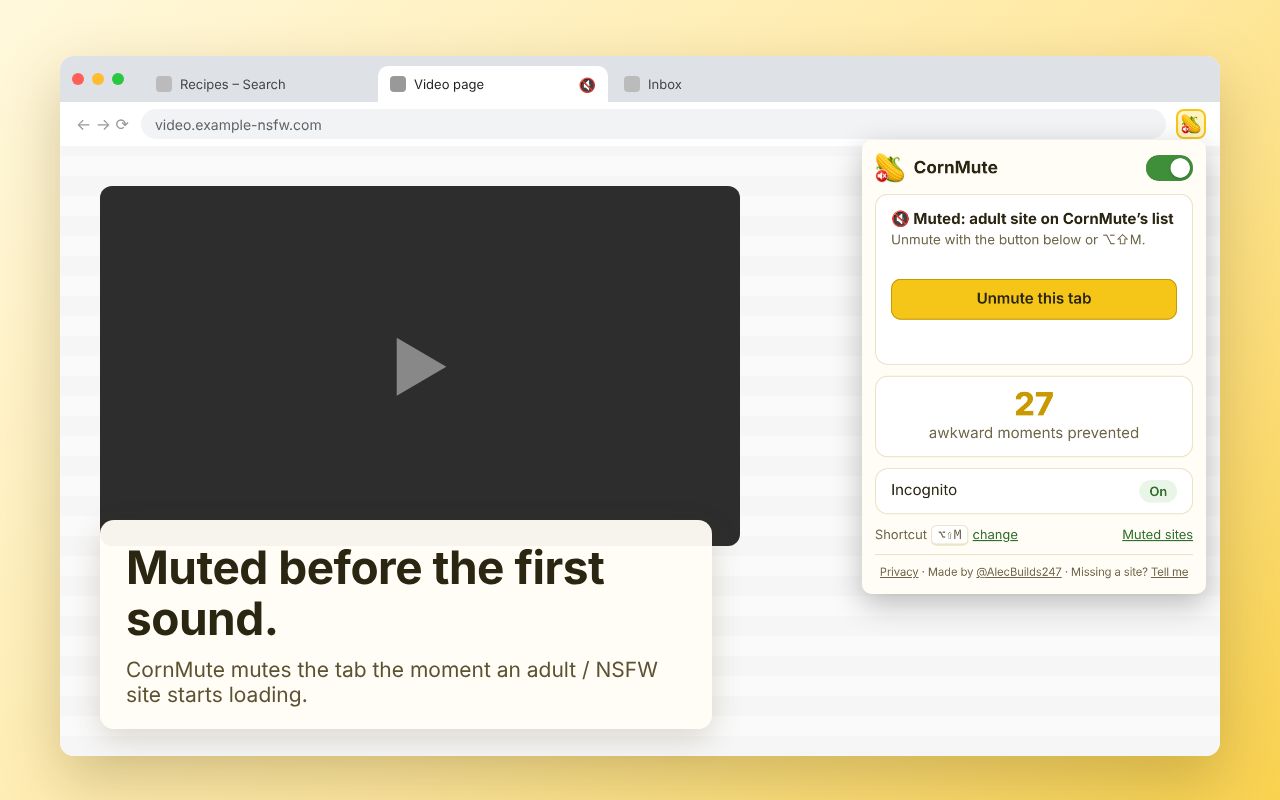
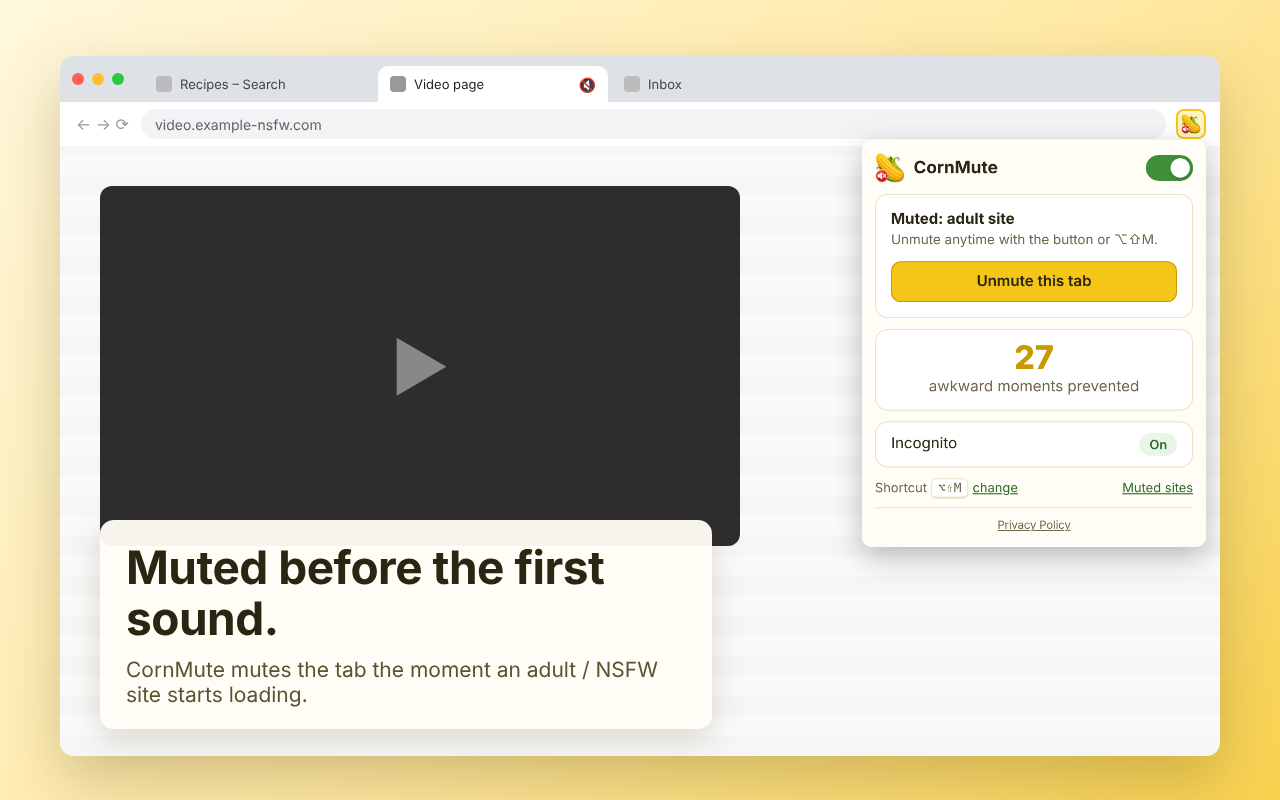
1.0.3 fixes: new status wording, no empty space, footers, website X + review button
- Popup: 'This site plays normally' / 'Nothing to mute here' (no button) / 'Muted: adult site' / 'Muted: on your list'
- Status card ends right after the button or link in every state
- Popup footer: Privacy Policy only. Muted sites: Privacy Policy, Leave a review (when item ID set), @AlecBuilds247
- Website: X link in footers, review button hidden until site/config.js has the item ID
- Tests, screenshots, store/popup-states.png preview, rebuilt release/cornmute-v1.0.3.zip

Claude-Session: https://claude.ai/code/session_01QvsT9z8FVnAeKioMtTewip

Changed region(s): [[0.6562, 0.25, 0.9375, 0.7812]]

diff --git a/tests/unit/popup.test.js b/tests/unit/popup.test.js
@@ -7,55 +7,72 @@ const base = { enabled: true, count: 0, builtinCount: 46987, host: 'news.example
   muted: false, mutedByCornMute: false, unmutedByUser: false };
 const S = '⌥⇧M';
 
-test('normal site: watching count with comma, plays normally, add link shown', () => {
+test('normal site: plays normally, dynamic count with comma, add link + button', () => {
   const c = statusCopy(base, S);
-  assert.equal(c.title, '✓ Watching 46,987 adult sites');
-  assert.equal(c.sub, 'This site isn’t one of them, so it plays normally.');
+  assert.equal(c.title, 'This site plays normally');
+  assert.equal(c.sub, 'It’s not one of the 46,987 adult sites CornMute mutes.');
   assert.equal(c.addLink, true);
+  assert.equal(c.showButton, true);
+  assert.match(statusCopy({ ...base, builtinCount: 51234 }, S).sub, /51,234/);
 });
 
-test('non-web page (new tab, chrome://): no add link', () => {
+test('browser pages (new tab, chrome://, Web Store): nothing to mute, no button, no link', () => {
   const c = statusCopy({ ...base, host: null }, S);
-  assert.match(c.title, /Watching 46,987/);
+  assert.equal(c.title, 'Nothing to mute here');
+  assert.equal(c.sub, 'CornMute works on websites. Open any site to use it.');
+  assert.equal(c.showButton, false);
   assert.equal(c.addLink, false);
 });
 
-test('muted by the built-in list: says adult site on CornMute’s list and how to unmute', () => {
+test('muted by the built-in list: "Muted: adult site" with the real shortcut', () => {
   const c = statusCopy({ ...base, site: 'x.com', builtin: true, muted: true, mutedByCornMute: true }, S);
-  assert.equal(c.title, 'Muted: adult site on CornMute’s list');
-  assert.equal(c.sub, 'Unmute with the button below or ⌥⇧M.');
+  assert.equal(c.title, 'Muted: adult site');
+  assert.equal(c.sub, 'Unmute anytime with the button or ⌥⇧M.');
+  assert.equal(c.showButton, true);
   assert.equal(c.addLink, false);
 });
 
-test('muted because the user added it: says your list', () => {
+test('muted because the user added it: "Muted: on your list"', () => {
   const c = statusCopy({ ...base, site: 'mine.dev', builtin: false, muted: true, mutedByCornMute: true }, 'Alt+Shift+M');
-  assert.equal(c.title, 'Muted: this site is on your list');
-  assert.match(c.sub, /Alt\+Shift\+M/);
+  assert.equal(c.title, 'Muted: on your list');
+  assert.equal(c.sub, 'Unmute anytime with the button or Alt+Shift+M.');
 });
 
-test('no shortcut set: unmute hint mentions only the button', () => {
+test('no shortcut set: unmute line mentions only the button', () => {
   const c = statusCopy({ ...base, site: 'x', builtin: true, muted: true, mutedByCornMute: true }, 'not set');
-  assert.equal(c.sub, 'Unmute with the button below.');
+  assert.equal(c.sub, 'Unmute anytime with the button.');
 });
 
-test('other states: off, unmuted by user, user-muted, listed but not muted', () => {
-  assert.equal(statusCopy({ ...base, enabled: false }, S).title, 'CornMute is off');
-  assert.equal(statusCopy({ ...base, site: 'a', builtin: true, unmutedByUser: true }, S).title, 'Unmuted by you');
-  assert.equal(statusCopy({ ...base, muted: true }, S).title, 'This tab is muted');
-  assert.equal(statusCopy({ ...base, site: 'a', builtin: true }, S).title, 'Adult site on CornMute’s list');
-  assert.equal(statusCopy({ ...base, site: 'a', builtin: false }, S).title, 'This site is on your list');
-});
-
-test('every state has short copy (card height stays stable)', () => {
-  const states = [base, { ...base, host: null }, { ...base, enabled: false },
-    { ...base, site: 'a', builtin: true, muted: true, mutedByCornMute: true },
-    { ...base, site: 'a', muted: true, mutedByCornMute: true },
-    { ...base, site: 'a', unmutedByUser: true }, { ...base, muted: true }, { ...base, site: 'a', builtin: true }];
-  for (const st of states) {
+test('other states keep the button and never show the add link', () => {
+  const states = { 'CornMute is off': { ...base, enabled: false }, 'Unmuted by you': { ...base, site: 'a', builtin: true, unmutedByUser: true },
+    'This tab is muted': { ...base, muted: true }, 'Adult site on CornMute’s list': { ...base, site: 'a', builtin: true }, 'On your list': { ...base, site: 'a' } };
+  for (const [title, st] of Object.entries(states)) {
     const c = statusCopy(st, S);
-    assert.ok(c.title.length <= 40, c.title);
-    assert.ok(c.sub.length <= 60, c.sub);
+    assert.equal(c.title, title);
+    assert.equal(c.showButton, true);
+    assert.equal(c.addLink, false);
   }
+});
+
+test('no "watching" wording anywhere in the extension UI', async () => {
+  const { readFileSync, readdirSync } = await import('node:fs');
+  const dir = new URL('../../extension/', import.meta.url);
+  for (const f of readdirSync(dir).filter((x) => /\.(js|html)$/.test(x))) {
+    assert.doesNotMatch(readFileSync(new URL(f, dir), 'utf8'), /watching/i, f);
+  }
+});
+
+test('footers: popup = Privacy Policy only; Muted sites = Privacy Policy, review, X; no "Tell me"', async () => {
+  const { readFileSync } = await import('node:fs');
+  const popup = readFileSync(new URL('../../extension/popup.html', import.meta.url), 'utf8');
+  const sites = readFileSync(new URL('../../extension/sites.html', import.meta.url), 'utf8');
+  const welcome = readFileSync(new URL('../../extension/welcome.html', import.meta.url), 'utf8');
+  const popupFooter = popup.slice(popup.indexOf('class="credits'));
+  assert.match(popupFooter, /Privacy Policy/);
+  assert.doesNotMatch(popupFooter, /AlecBuilds247|Tell me|review/i);
+  assert.match(sites, /Privacy Policy[\s\S]*Leave a review ★[\s\S]*@AlecBuilds247/);
+  for (const html of [popup, sites]) assert.doesNotMatch(html, /Tell me/);
+  assert.doesNotMatch(welcome, /review/i);
 });
 
 test('Incognito hint shows only when Incognito is off', () => {

diff --git a/extension/popup-copy.js b/extension/popup-copy.js
@@ -1,31 +1,20 @@
 // Text for the popup's status card. Pure function so it can be unit tested.
 // info: result of the background 'getTabInfo' message. shortcut: e.g. "⌥⇧M" or "Alt+Shift+M".
+// Returns { title, sub, addLink, showButton }.
 export function statusCopy(info, shortcut) {
-  const unmuteHow = shortcut && shortcut !== 'not set' ? `Unmute with the button below or ${shortcut}.` : 'Unmute with the button below.';
-  const watching = `✓ Watching ${Number(info.builtinCount || 0).toLocaleString('en-US')} adult sites`;
-  if (!info.enabled) {
-    return { icon: '⏸', title: 'CornMute is off', sub: 'Turn it on to mute adult sites the moment they load.', addLink: false };
-  }
-  if (info.mutedByCornMute) {
-    return info.builtin
-      ? { icon: '🔇', title: 'Muted: adult site on CornMute’s list', sub: unmuteHow, addLink: false }
-      : { icon: '🔇', title: 'Muted: this site is on your list', sub: unmuteHow, addLink: false };
-  }
-  if (info.unmutedByUser) {
-    return { icon: '🔈', title: 'Unmuted by you', sub: 'It stays unmuted while this tab is on this site.', addLink: false };
-  }
-  if (info.muted) {
-    return { icon: '🔇', title: 'This tab is muted', sub: 'You muted it, so CornMute won’t undo that.', addLink: false };
-  }
-  if (info.site) {
-    return info.builtin
-      ? { icon: '🌽', title: 'Adult site on CornMute’s list', sub: 'It will start muted next time it loads.', addLink: false }
-      : { icon: '🌽', title: 'This site is on your list', sub: 'It will start muted next time it loads.', addLink: false };
-  }
-  if (!info.host) {
-    return { icon: '', title: watching, sub: 'CornMute only works on websites, not on this page.', addLink: false };
-  }
-  return { icon: '', title: watching, sub: 'This site isn’t one of them, so it plays normally.', addLink: true };
+  const unmuteHow = shortcut && shortcut !== 'not set'
+    ? `Unmute anytime with the button or ${shortcut}.`
+    : 'Unmute anytime with the button.';
+  const count = Number(info.builtinCount || 0).toLocaleString('en-US');
+  const s = (title, sub, extra = {}) => ({ title, sub, addLink: false, showButton: true, ...extra });
+
+  if (!info.enabled) return s('CornMute is off', 'Turn it on to mute adult sites the moment they load.');
+  if (info.mutedByCornMute) return s(info.builtin ? 'Muted: adult site' : 'Muted: on your list', unmuteHow);
+  if (info.unmutedByUser) return s('Unmuted by you', 'It stays unmuted while this tab is on this site.');
+  if (info.muted) return s('This tab is muted', 'You muted it, so CornMute won’t undo that.');
+  if (info.site) return s(info.builtin ? 'Adult site on CornMute’s list' : 'On your list', 'It will start muted next time it loads.');
+  if (!info.host) return s('Nothing to mute here', 'CornMute works on websites. Open any site to use it.', { showButton: false });
+  return s('This site plays normally', `It’s not one of the ${count} adult sites CornMute mutes.`, { addLink: true });
 }
 
 export function incognitoHint(allowed) {

diff --git a/site/index.html b/site/index.html
@@ -25,9 +25,11 @@
   </ul>
 </div>
 
-<p><a class="btn" href="https://chromewebstore.google.com/search/CornMute">Get CornMute for Chrome</a></p>
+<p><a class="btn" href="https://chromewebstore.google.com/search/CornMute">Get CornMute for Chrome</a>
+  <a class="btn" data-review hidden target="_blank" rel="noopener" style="background:transparent">Leave a review ★</a></p>
 <p class="muted">Want to see it work without visiting anything awkward? Try the <a href="demo.html">harmless demo page</a>.</p>
 
 <p class="muted" style="font-size:14px">The built-in list includes the open-source <a href="https://github.com/StevenBlack/hosts">StevenBlack/hosts</a> adult list (MIT / CC BY 4.0).</p>
-<footer>CornMute by AlecBuilds · <a href="privacy.html">Privacy policy</a> · <a href="mailto:alecbuilds247@gmail.com">alecbuilds247@gmail.com</a></footer>
+<footer>CornMute by AlecBuilds · Made by <a href="https://x.com/AlecBuilds247" target="_blank" rel="noopener">@AlecBuilds247</a> · <a href="privacy.html">Privacy policy</a> · <a href="mailto:alecbuilds247@gmail.com">alecbuilds247@gmail.com</a></footer>
+<script src="config.js"></script>
 </main></body></html>

diff --git a/extension/popup.js b/extension/popup.js
@@ -15,14 +15,16 @@ function render(info) {
   $('count').textContent = info.count.toLocaleString('en-US');
 
   const copy = statusCopy(info, shortcut);
-  $('status').textContent = (copy.icon ? copy.icon + ' ' : '') + copy.title;
+  $('status').textContent = copy.title;
   $('statusSub').textContent = copy.sub;
 
   $('toggleTab').textContent = info.muted ? 'Unmute this tab' : 'Mute this tab';
-  $('toggleTab').disabled = !tab;
+  $('toggleTab').hidden = !copy.showButton || !tab;
+  $('tabCard').classList.toggle('no-button', $('toggleTab').hidden);
 
   const domain = info.host ? cleanDomain(info.host) : null;
   $('addLink').hidden = !(copy.addLink && domain);
+  $('addRow').hidden = $('addLink').hidden;
   $('addLink').dataset.domain = domain || '';
 
   $('review').hidden = !shouldShowReview(info.count, reviewDismissed);
@@ -49,7 +51,6 @@ async function init() {
   $('shortcut').textContent = shortcut;
 
   $('privacyLink').href = LINKS.privacy;
-  for (const a of document.querySelectorAll('.xLink')) a.href = LINKS.x;
   const rUrl = reviewUrl();
   if (rUrl) $('reviewLink').href = rUrl;
 

diff --git a/extension/popup.html b/extension/popup.html
@@ -22,7 +22,7 @@
     <div id="statusSub" class="sub muted-text"></div>
   </div>
   <button id="toggleTab" class="primary wide">Unmute this tab</button>
-  <div class="add-row"><button id="addLink" class="link small" hidden>Missing an adult site? Add it to your list →</button></div>
+  <div class="add-row" id="addRow" hidden><button id="addLink" class="link small" hidden>Missing an adult site? Add it to your list →</button></div>
 </section>
 
 <section class="card counter">
@@ -48,9 +48,7 @@
   <button id="openSites" class="link">Muted sites</button>
 </footer>
 <div class="credits muted-text">
-  <a id="privacyLink" target="_blank" rel="noopener">Privacy</a> ·
-  Made by <a class="xLink" target="_blank" rel="noopener">@AlecBuilds247</a> ·
-  Missing a site? <a class="xLink" target="_blank" rel="noopener">Tell me</a>
+  <a id="privacyLink" target="_blank" rel="noopener">Privacy Policy</a>
 </div>
 <script type="module" src="popup.js"></script>
 </body>

diff --git a/extension/sites.html b/extension/sites.html
@@ -50,9 +50,9 @@
     <p class="muted-text" style="font-size:12px;margin:10px 0 0">Built-in list includes the open-source <a href="https://github.com/StevenBlack/hosts" target="_blank" rel="noopener">StevenBlack/hosts</a> adult list (MIT / CC BY 4.0) — <a href="licenses/THIRD-PARTY-NOTICES.txt" target="_blank">credits</a>.</p>
   </section>
   <div class="credits muted-text">
-    <a id="privacyLink" target="_blank" rel="noopener">Privacy</a> ·
-    Made by <a class="xLink" target="_blank" rel="noopener">@AlecBuilds247</a> ·
-    Missing a site? <a class="xLink" target="_blank" rel="noopener">Tell me</a>
+    <a id="privacyLink" target="_blank" rel="noopener">Privacy Policy</a>
+    <span id="reviewBit" hidden> · <a id="reviewLink" target="_blank" rel="noopener">Leave a review ★</a></span>
+    · Made by <a id="xLink" target="_blank" rel="noopener">@AlecBuilds247</a>
   </div>
 </main>
 <script type="module" src="mysites.js"></script>

diff --git a/extension/popup.css b/extension/popup.css
@@ -1,12 +1,12 @@
 body { width: 320px; padding: 12px; display: grid; gap: 10px; }
 header { display: flex; align-items: center; gap: 8px; font-size: 16px; }
 header strong { flex: 1; }
-/* Fixed-height status block so the card doesn't jump between states */
-.status-block { min-height: 54px; margin-bottom: 10px; }
+.status-block { margin-bottom: 10px; }
+#tabCard.no-button .status-block { margin-bottom: 0; }
 .status { font-weight: 650; line-height: 1.3; }
 .sub { font-size: 12.5px; margin-top: 3px; line-height: 1.35; }
 button.wide { width: 100%; }
-.add-row { min-height: 20px; margin-top: 7px; text-align: center; }
+.add-row { margin-top: 8px; text-align: center; }
 button.link.small, .review a { font-size: 12px; }
 .counter { text-align: center; padding: 10px; }
 .big { font-size: 30px; font-weight: 800; color: var(--corn-dark); line-height: 1.1; }

diff --git a/extension/mysites.js b/extension/mysites.js
@@ -1,5 +1,5 @@
 import { cleanDomain } from './domains.js';
-import { LINKS } from './config.js';
+import { LINKS, reviewUrl } from './config.js';
 
 const $ = (id) => document.getElementById(id);
 const send = (msg) => chrome.runtime.sendMessage(msg);
@@ -52,7 +52,9 @@ $('addForm').addEventListener('submit', async (e) => {
 });
 
 $('privacyLink').href = LINKS.privacy;
-for (const a of document.querySelectorAll('.xLink')) a.href = LINKS.x;
+$('xLink').href = LINKS.x;
+// Review link is always shown here once the store item ID is set (hidden until then: no dead link).
+if (reviewUrl()) { $('reviewLink').href = reviewUrl(); $('reviewBit').hidden = false; }
 
 // Opened from the popup's "Missing an adult site?" link: prefill and focus the add box.
 const prefill = cleanDomain(new URLSearchParams(location.search).get('add'));

diff --git a/site/demo.html b/site/demo.html
@@ -29,7 +29,7 @@
 <button id="play" class="btn">▶ Play test tone</button>
 <div id="state" class="muted">Tone is off.</div>
 
-<footer>CornMute by AlecBuilds · <a href="privacy.html">Privacy policy</a></footer>
+<footer>CornMute by AlecBuilds · Made by <a href="https://x.com/AlecBuilds247" target="_blank" rel="noopener">@AlecBuilds247</a> · <a href="privacy.html">Privacy policy</a></footer>
 <script>
   document.getElementById('host').textContent = location.hostname;
   let ctx, osc;
@@ -44,4 +44,5 @@
   function stop() { osc && osc.stop(); osc = null; btn.textContent = '▶ Play test tone'; state.textContent = 'Tone is off.'; }
   btn.addEventListener('click', () => (osc ? stop() : start()));
 </script>
+<script src="config.js"></script>
 </main></body></html>

diff --git a/site/style.css b/site/style.css
@@ -1,6 +1,7 @@
 :root { --bg:#fffdf6; --card:#fff; --text:#2b2612; --muted:#6f6649; --line:#ece4c8; --corn:#f5c518; --corn-dark:#c99a00; --accent:#2f6f2b; }
 @media (prefers-color-scheme: dark) { :root { --bg:#1d1b14; --card:#27241a; --text:#f4efdc; --muted:#b8ae8a; --line:#3b3625; --accent:#8fd18a; } }
 * { box-sizing: border-box; }
+[hidden] { display: none !important; }
 body { margin:0; background:var(--bg); color:var(--text); font:16px/1.6 -apple-system,BlinkMacSystemFont,"Segoe UI",Roboto,Helvetica,Arial,sans-serif; }
 main { max-width: 720px; margin: 0 auto; padding: 40px 16px 64px; }
 header.top { display:flex; align-items:center; gap:12px; }

diff --git a/site/config.js b/site/config.js
@@ -1,0 +1,10 @@
+// Chrome Web Store item ID (32 letters a–p). While empty, the "Leave a review" button stays hidden.
+window.CORNMUTE_ITEM_ID = '';
+(function () {
+  var id = window.CORNMUTE_ITEM_ID;
+  if (!/^[a-p]{32}$/.test(id)) return;
+  document.querySelectorAll('[data-review]').forEach(function (el) {
+    el.href = 'https://chromewebstore.google.com/detail/' + id + '/reviews';
+    el.hidden = false;
+  });
+})();

diff --git a/site/privacy.html b/site/privacy.html
@@ -51,5 +51,6 @@
 <h2>Contact</h2>
 <p><a href="mailto:alecbuilds247@gmail.com">alecbuilds247@gmail.com</a></p>
 
-<footer>CornMute by AlecBuilds · <a href="./">Home</a></footer>
+<footer>CornMute by AlecBuilds · Made by <a href="https://x.com/AlecBuilds247" target="_blank" rel="noopener">@AlecBuilds247</a> · <a href="./">Home</a></footer>
+<script src="config.js"></script>
 </main></body></html>
